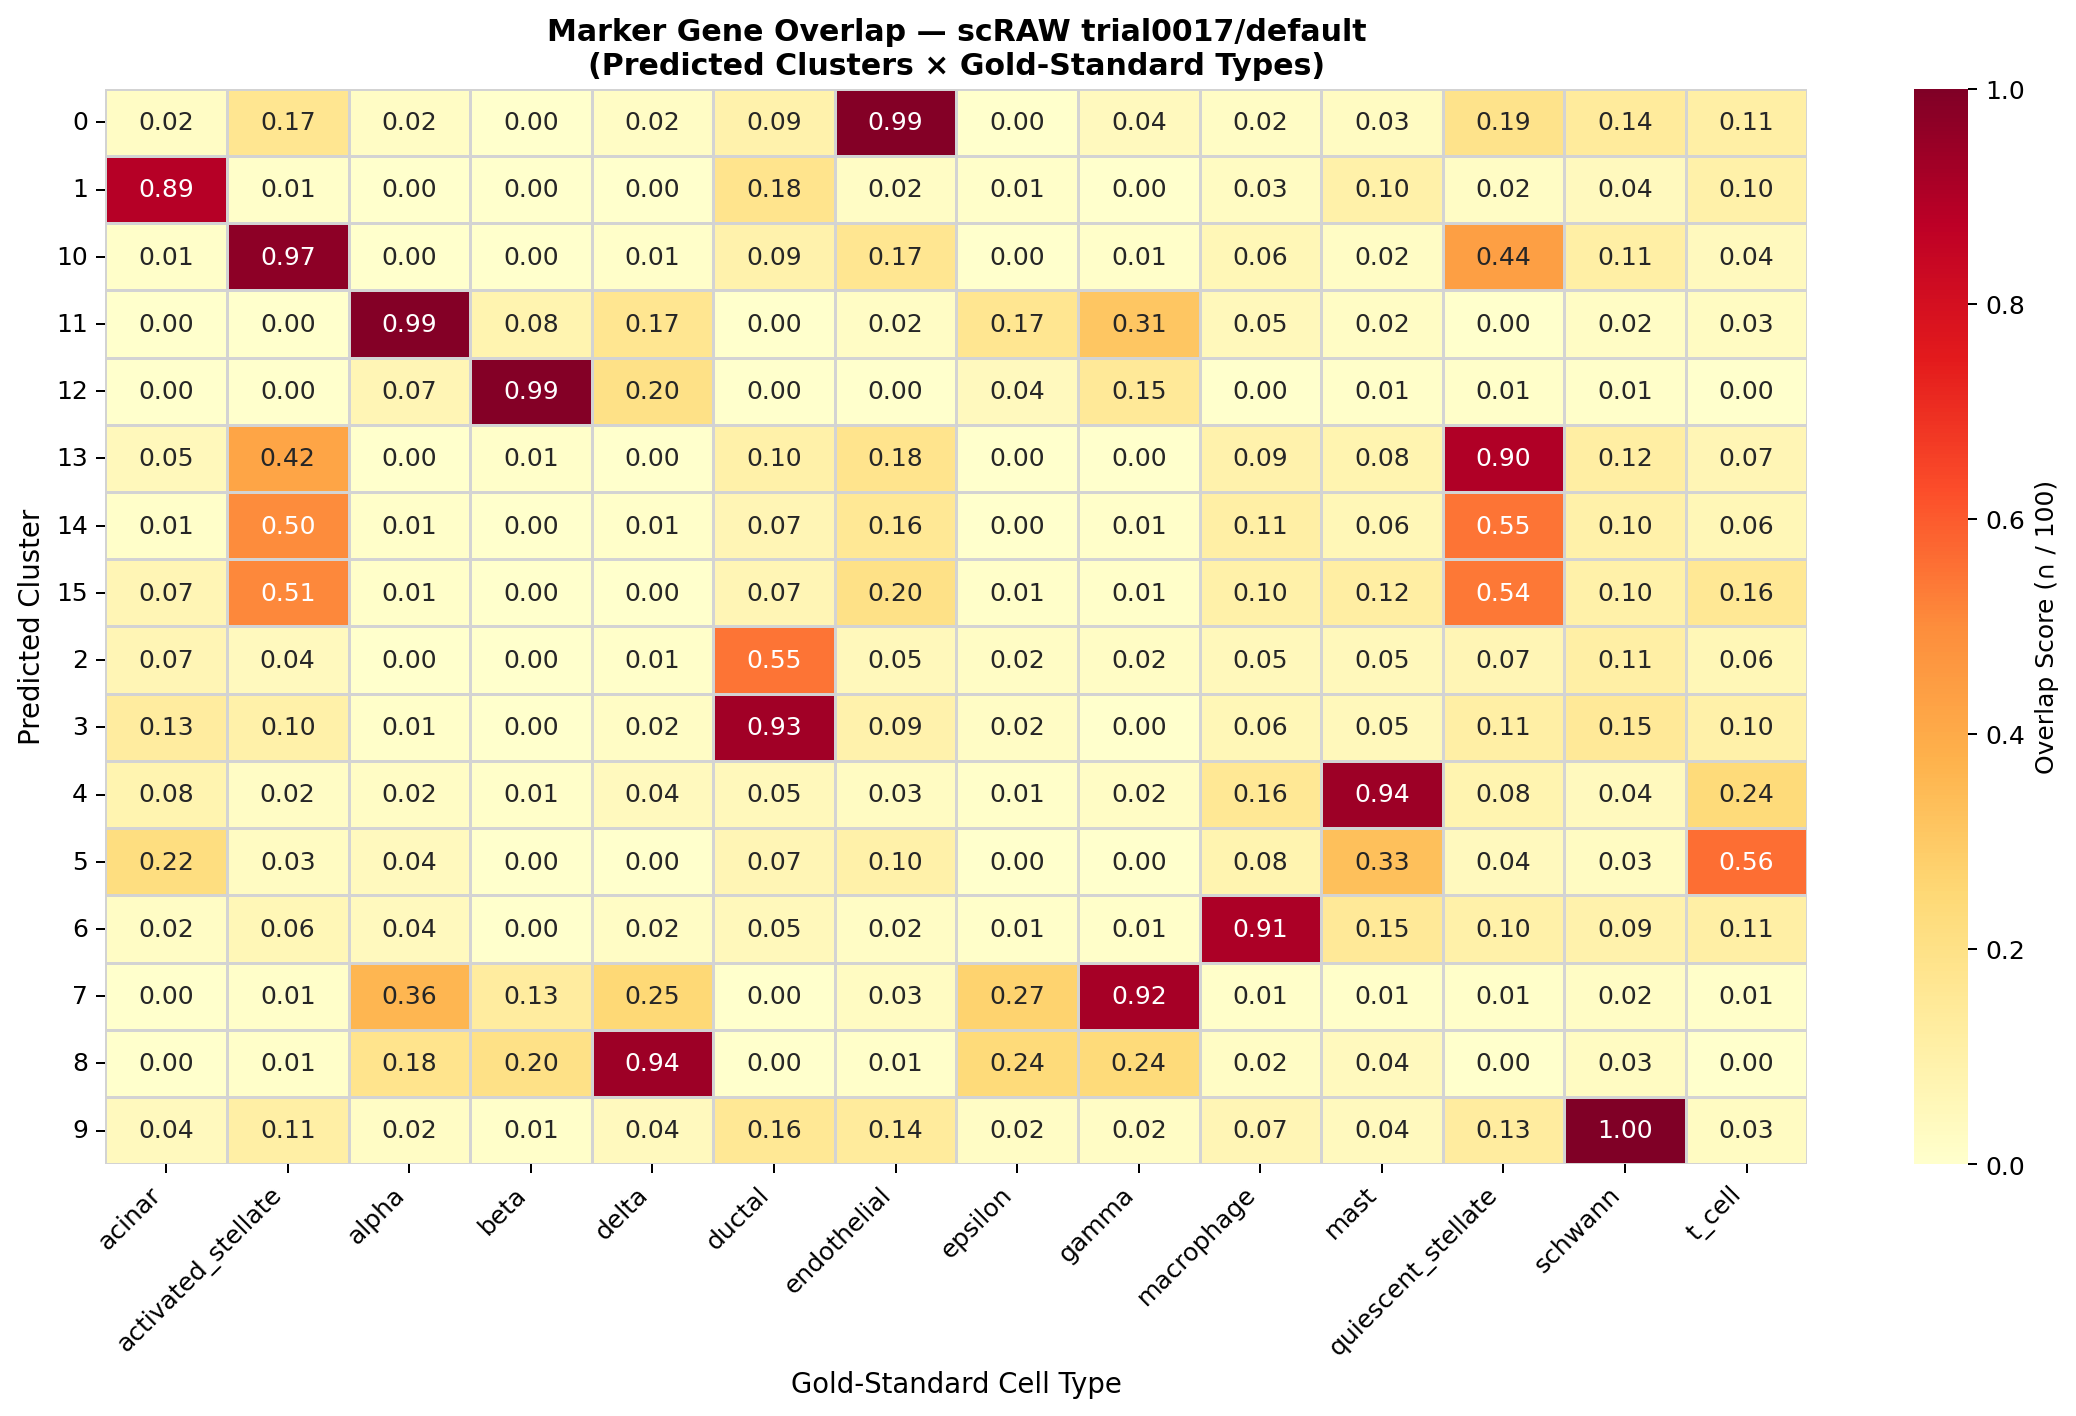
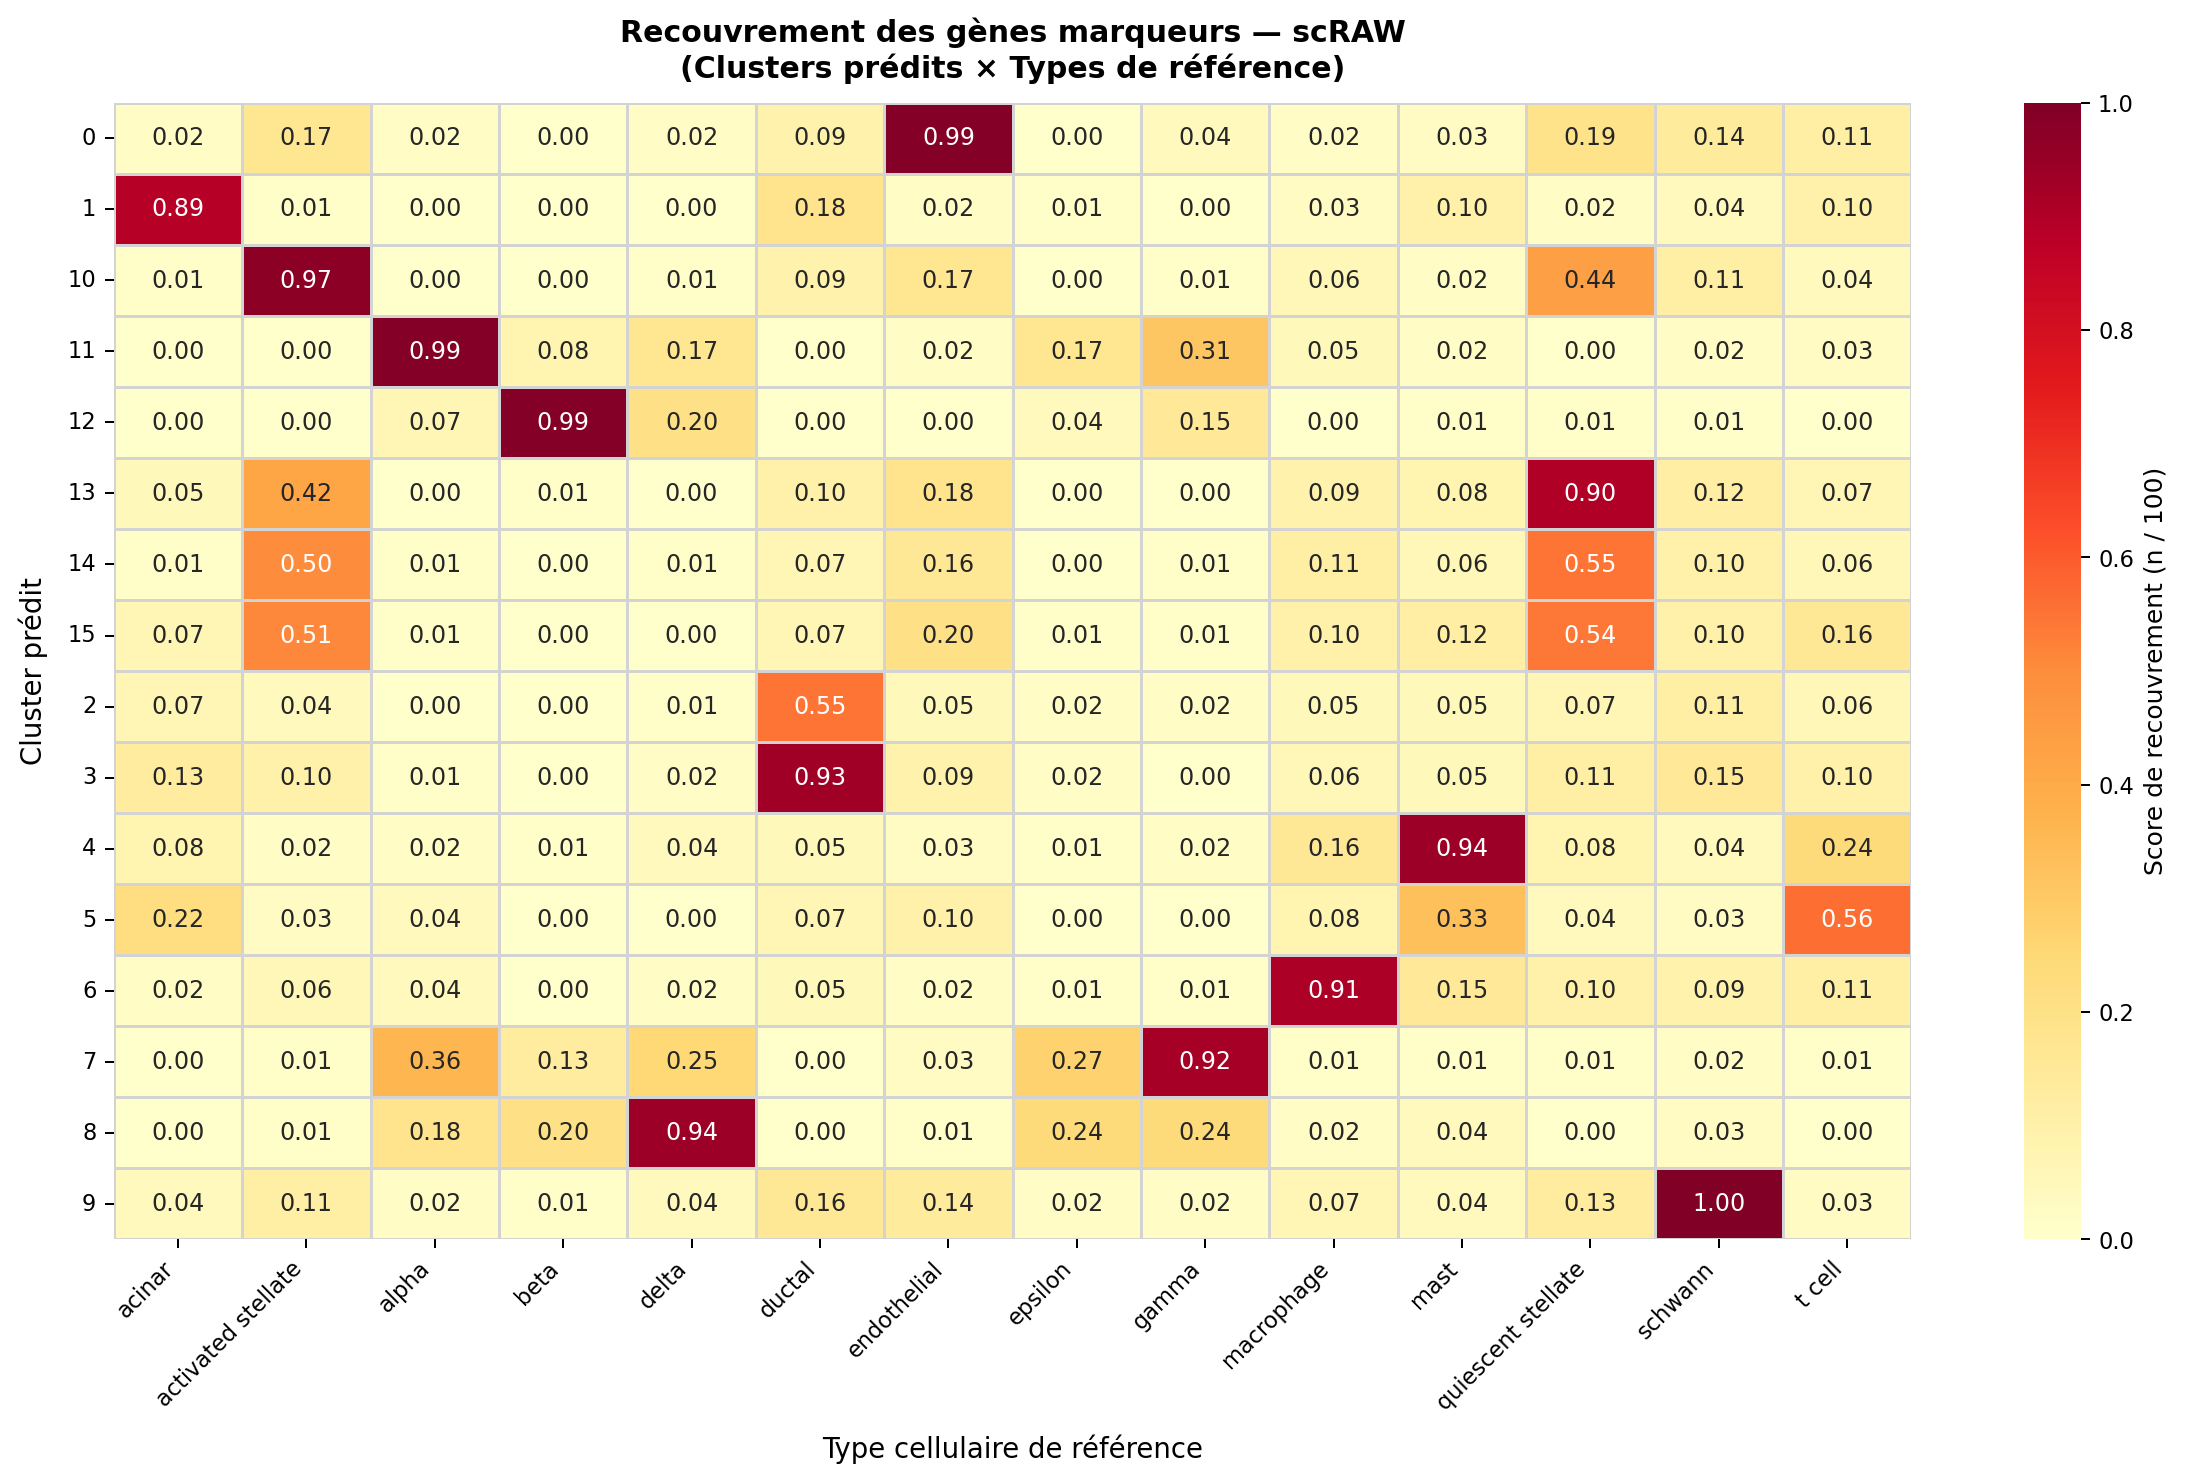
Translate Figure 7 marker overlap heatmap to French

diff --git a/Images/analyse_biologique_scraw_baron_trial0017/replot_figure_7.py b/Images/analyse_biologique_scraw_baron_trial0017/replot_figure_7.py
@@ -1,5 +1,5 @@
 #!/usr/bin/env python3
-"""Regenerate Figure 7 – t-SNE qualitative panel in French.
+"""Regenerate Figure 7 – t-SNE qualitative panel and Marker Overlap Heatmap in French.
 """
 
 from __future__ import annotations
@@ -13,8 +13,11 @@ import pandas as pd
 import seaborn as sns
 
 ROOT = Path(__file__).resolve().parent
-CSV_PATH = ROOT / "tsne_coordinates.csv"
-OUTPUT_PATH = ROOT / "tsne_qualitative_panel.png"
+TSNE_CSV_PATH = ROOT / "tsne_coordinates.csv"
+TSNE_OUTPUT_PATH = ROOT / "tsne_qualitative_panel.png"
+
+HEATMAP_CSV_PATH = ROOT / "marker_overlap_matrix.csv"
+HEATMAP_OUTPUT_PATH = ROOT / "marker_overlap_heatmap.png"
 
 def scatter_categories(ax: plt.Axes, coords: np.ndarray, labels: np.ndarray, title: str, palette_name: str = "tab20", sort_key=None) -> None:
     vals = np.asarray(labels, dtype=str)
@@ -63,8 +66,8 @@ def scatter_status(ax: plt.Axes, coords: np.ndarray, labels: np.ndarray, title: 
     ax.set_yticks([])
     ax.legend(loc="best", fontsize=9, markerscale=2.2, frameon=False)
 
-def make_figure() -> None:
-    df = pd.read_csv(CSV_PATH)
+def make_tsne() -> None:
+    df = pd.read_csv(TSNE_CSV_PATH)
     coords = df[["tsne_1", "tsne_2"]].values
 
     true = df["true_label"].astype(str).to_numpy()
@@ -122,9 +125,62 @@ def make_figure() -> None:
     fig.suptitle("visualisation tsne - scRAW", fontsize=15, fontweight="bold")
     fig.tight_layout(rect=[0, 0, 1, 0.96])
     
-    fig.savefig(OUTPUT_PATH, bbox_inches="tight", dpi=180)
+    fig.savefig(TSNE_OUTPUT_PATH, bbox_inches="tight", dpi=180)
     plt.close(fig)
-    print(f"Saved: {OUTPUT_PATH}")
+    print(f"Saved: {TSNE_OUTPUT_PATH}")
+
+def make_heatmap() -> None:
+    df = pd.read_csv(HEATMAP_CSV_PATH, index_col=0)
+    
+    # Remplacer les tirets bas par des espaces dans les colonnes (les types de référence)
+    df.columns = [col.replace("_", " ") for col in df.columns]
+    
+    n_rows, n_cols = df.shape
+    figsize = (max(8.5, n_cols * 0.95), max(5.5, n_rows * 0.52))
+
+    plt.style.use("default")
+    plt.rcParams.update({
+        "figure.dpi": 180,
+        "font.size": 9.5,
+        "axes.titlesize": 11.5,
+        "axes.labelsize": 10,
+        "xtick.labelsize": 9,
+        "ytick.labelsize": 9,
+    })
+
+    fig, ax = plt.subplots(figsize=figsize)
+
+    im = sns.heatmap(
+        df,
+        annot=True,
+        fmt=".2f",
+        cmap="YlOrRd",
+        linewidths=0.5,
+        linecolor="lightgray",
+        cbar_kws={"label": "Score de recouvrement (n / 100)"},
+        ax=ax,
+        vmin=0,
+        vmax=1,
+    )
+
+    ax.set_title(
+        "Recouvrement des gènes marqueurs — scRAW\n"
+        "(Clusters prédits × Types de référence)",
+        fontsize=12,
+        fontweight="bold",
+        pad=10
+    )
+    ax.set_xlabel("Type cellulaire de référence", fontsize=11, labelpad=8)
+    ax.set_ylabel("Cluster prédit", fontsize=11, labelpad=8)
+
+    plt.setp(ax.get_xticklabels(), rotation=45, ha="right")
+    plt.setp(ax.get_yticklabels(), rotation=0)
+
+    plt.tight_layout()
+    fig.savefig(HEATMAP_OUTPUT_PATH, bbox_inches="tight", dpi=180)
+    plt.close(fig)
+    print(f"Saved: {HEATMAP_OUTPUT_PATH}")
 
 if __name__ == "__main__":
-    make_figure()
+    make_tsne()
+    make_heatmap()
